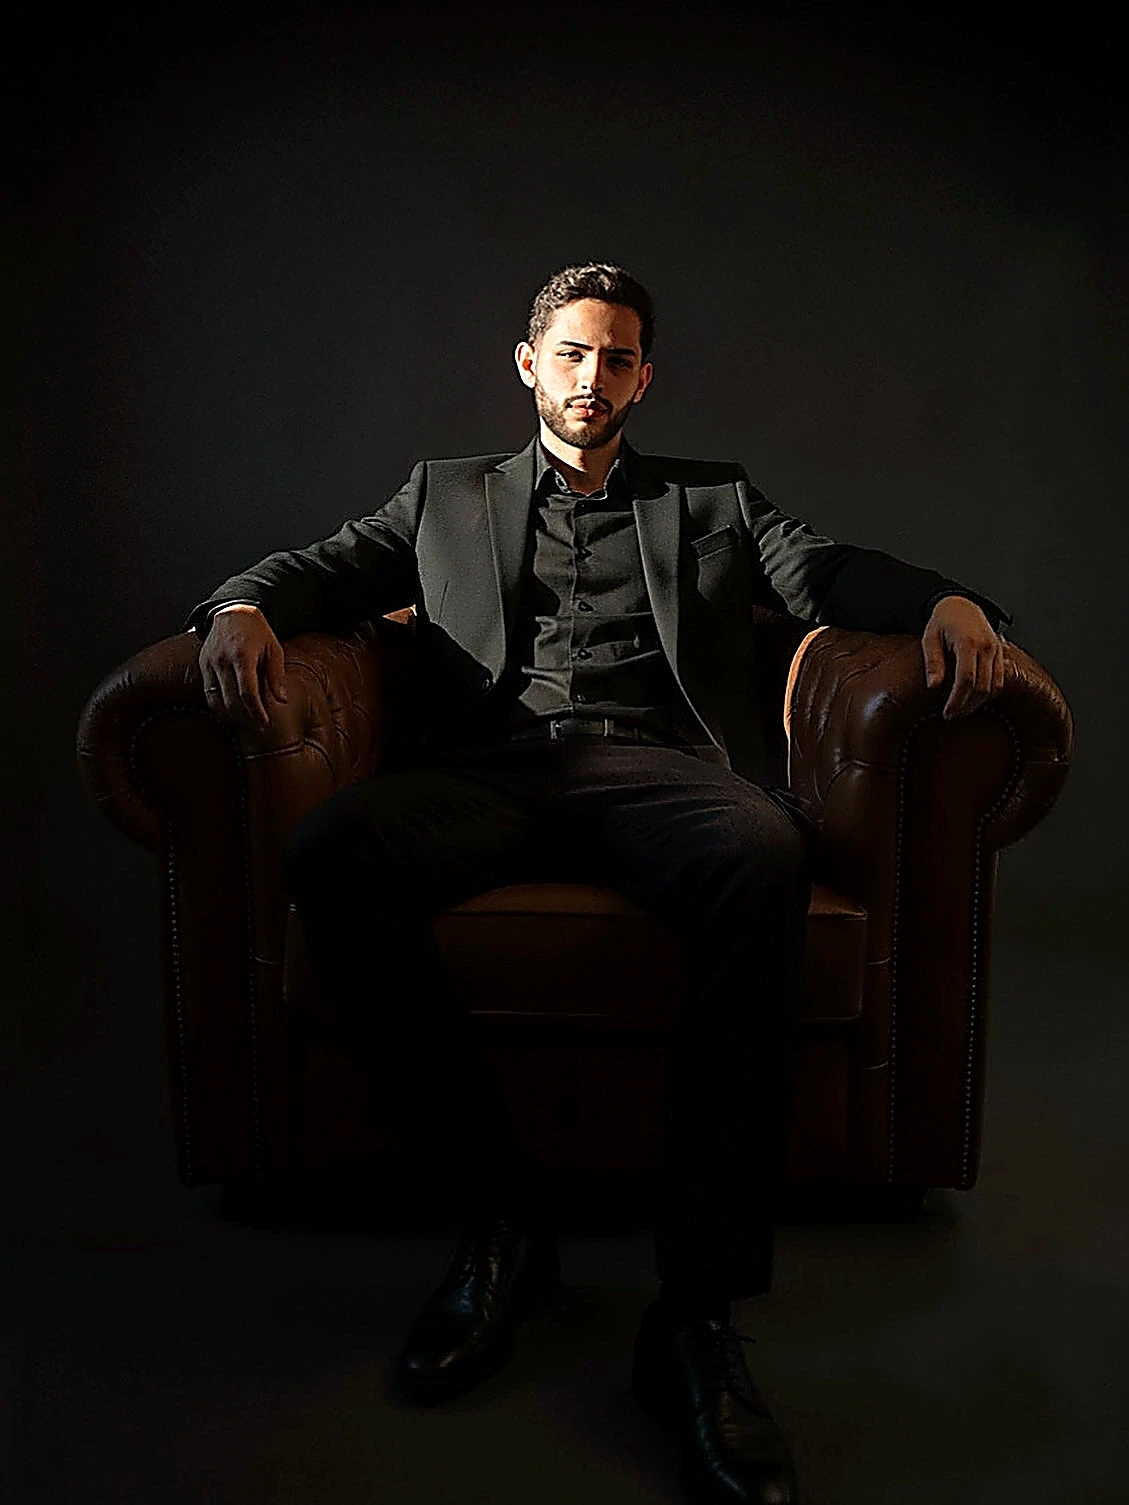
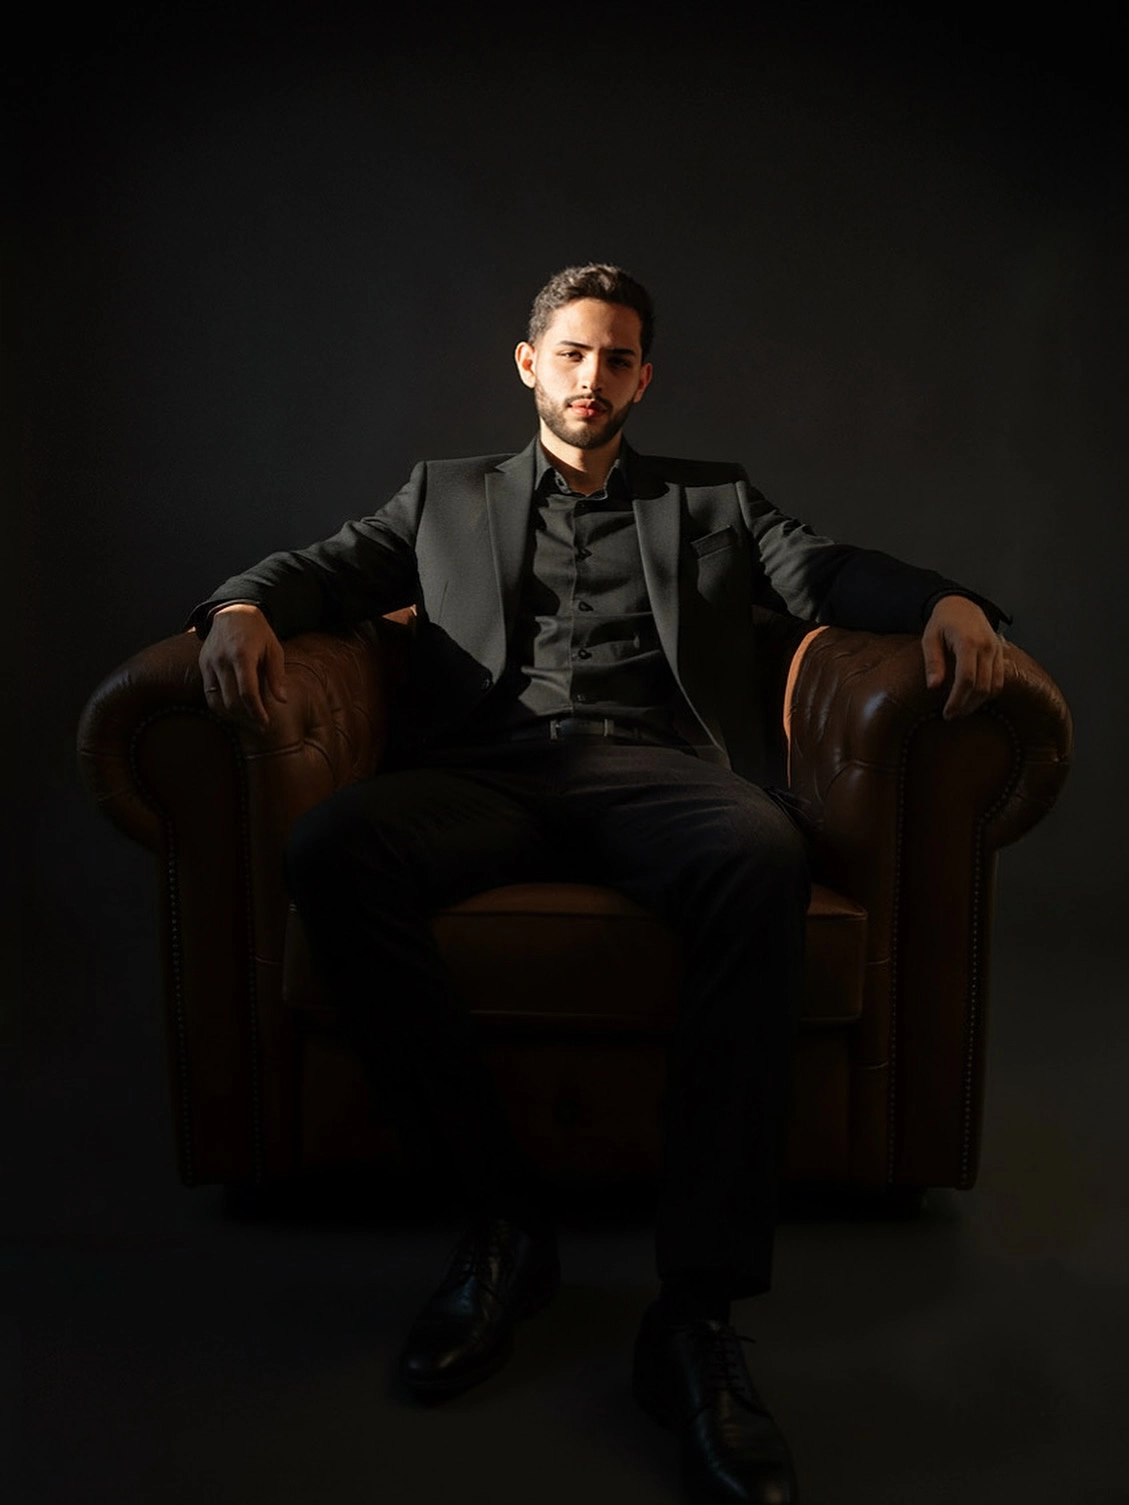
Restore original untouched 153.5KB hero photo file from initial commit and reset overlay gradient matching 19:40 screenshot

diff --git a/src/components/ui/parallax-scrolling.jsx b/src/components/ui/parallax-scrolling.jsx
@@ -64,21 +64,21 @@ export function ParallaxComponent({ onOpenICP }) {
       {/* ========================================================= */}
       <div data-hero-pinned-wrapper className="relative w-full h-screen overflow-hidden bg-[#080c19]">
         
-        {/* FOTO DO HERO (MOBILE 100% INTACTO E LUMINOSO | DESKTOP COM SUAVE ESCURECIMENTO) */}
+        {/* FOTO ORIGINAL ORIGINALMENTE EM 153.5KB RESTAURADA EM QUALIDADE MÁXIMA */}
         <div className="absolute inset-0 w-full h-full z-0 overflow-hidden">
           <img 
             data-parallax-photo
             src={heroPhoto} 
             alt="Fundador Converte+ na Poltrona" 
-            className="w-full h-full object-cover [object-position:center_22%] filter brightness-100 md:brightness-[0.88] origin-center"
+            className="w-full h-full object-cover [object-position:center_22%] filter contrast-105 brightness-95 origin-center"
           />
           
-          {/* Sombreamento para transição suave */}
+          {/* Sombreamento degradê original que esfumaça perfeitamente para o fundo escuro */}
           <div className="absolute inset-0 bg-gradient-to-b from-[#080c19]/40 via-transparent to-[#080c19]" />
-          <div className="absolute inset-0 bg-radial from-transparent via-transparent to-[#080c19]/45" />
+          <div className="absolute inset-0 bg-radial from-transparent via-transparent to-[#080c19]/50" />
         </div>
 
-        {/* TÍTULO CONVERTE+ (IDÊNTICO AO MOBILE) */}
+        {/* TÍTULO CONVERTE+ */}
         <div className="absolute inset-0 z-10 flex flex-col items-center justify-between pt-20 pb-8 pointer-events-none">
           <div className="h-10"></div>
 
